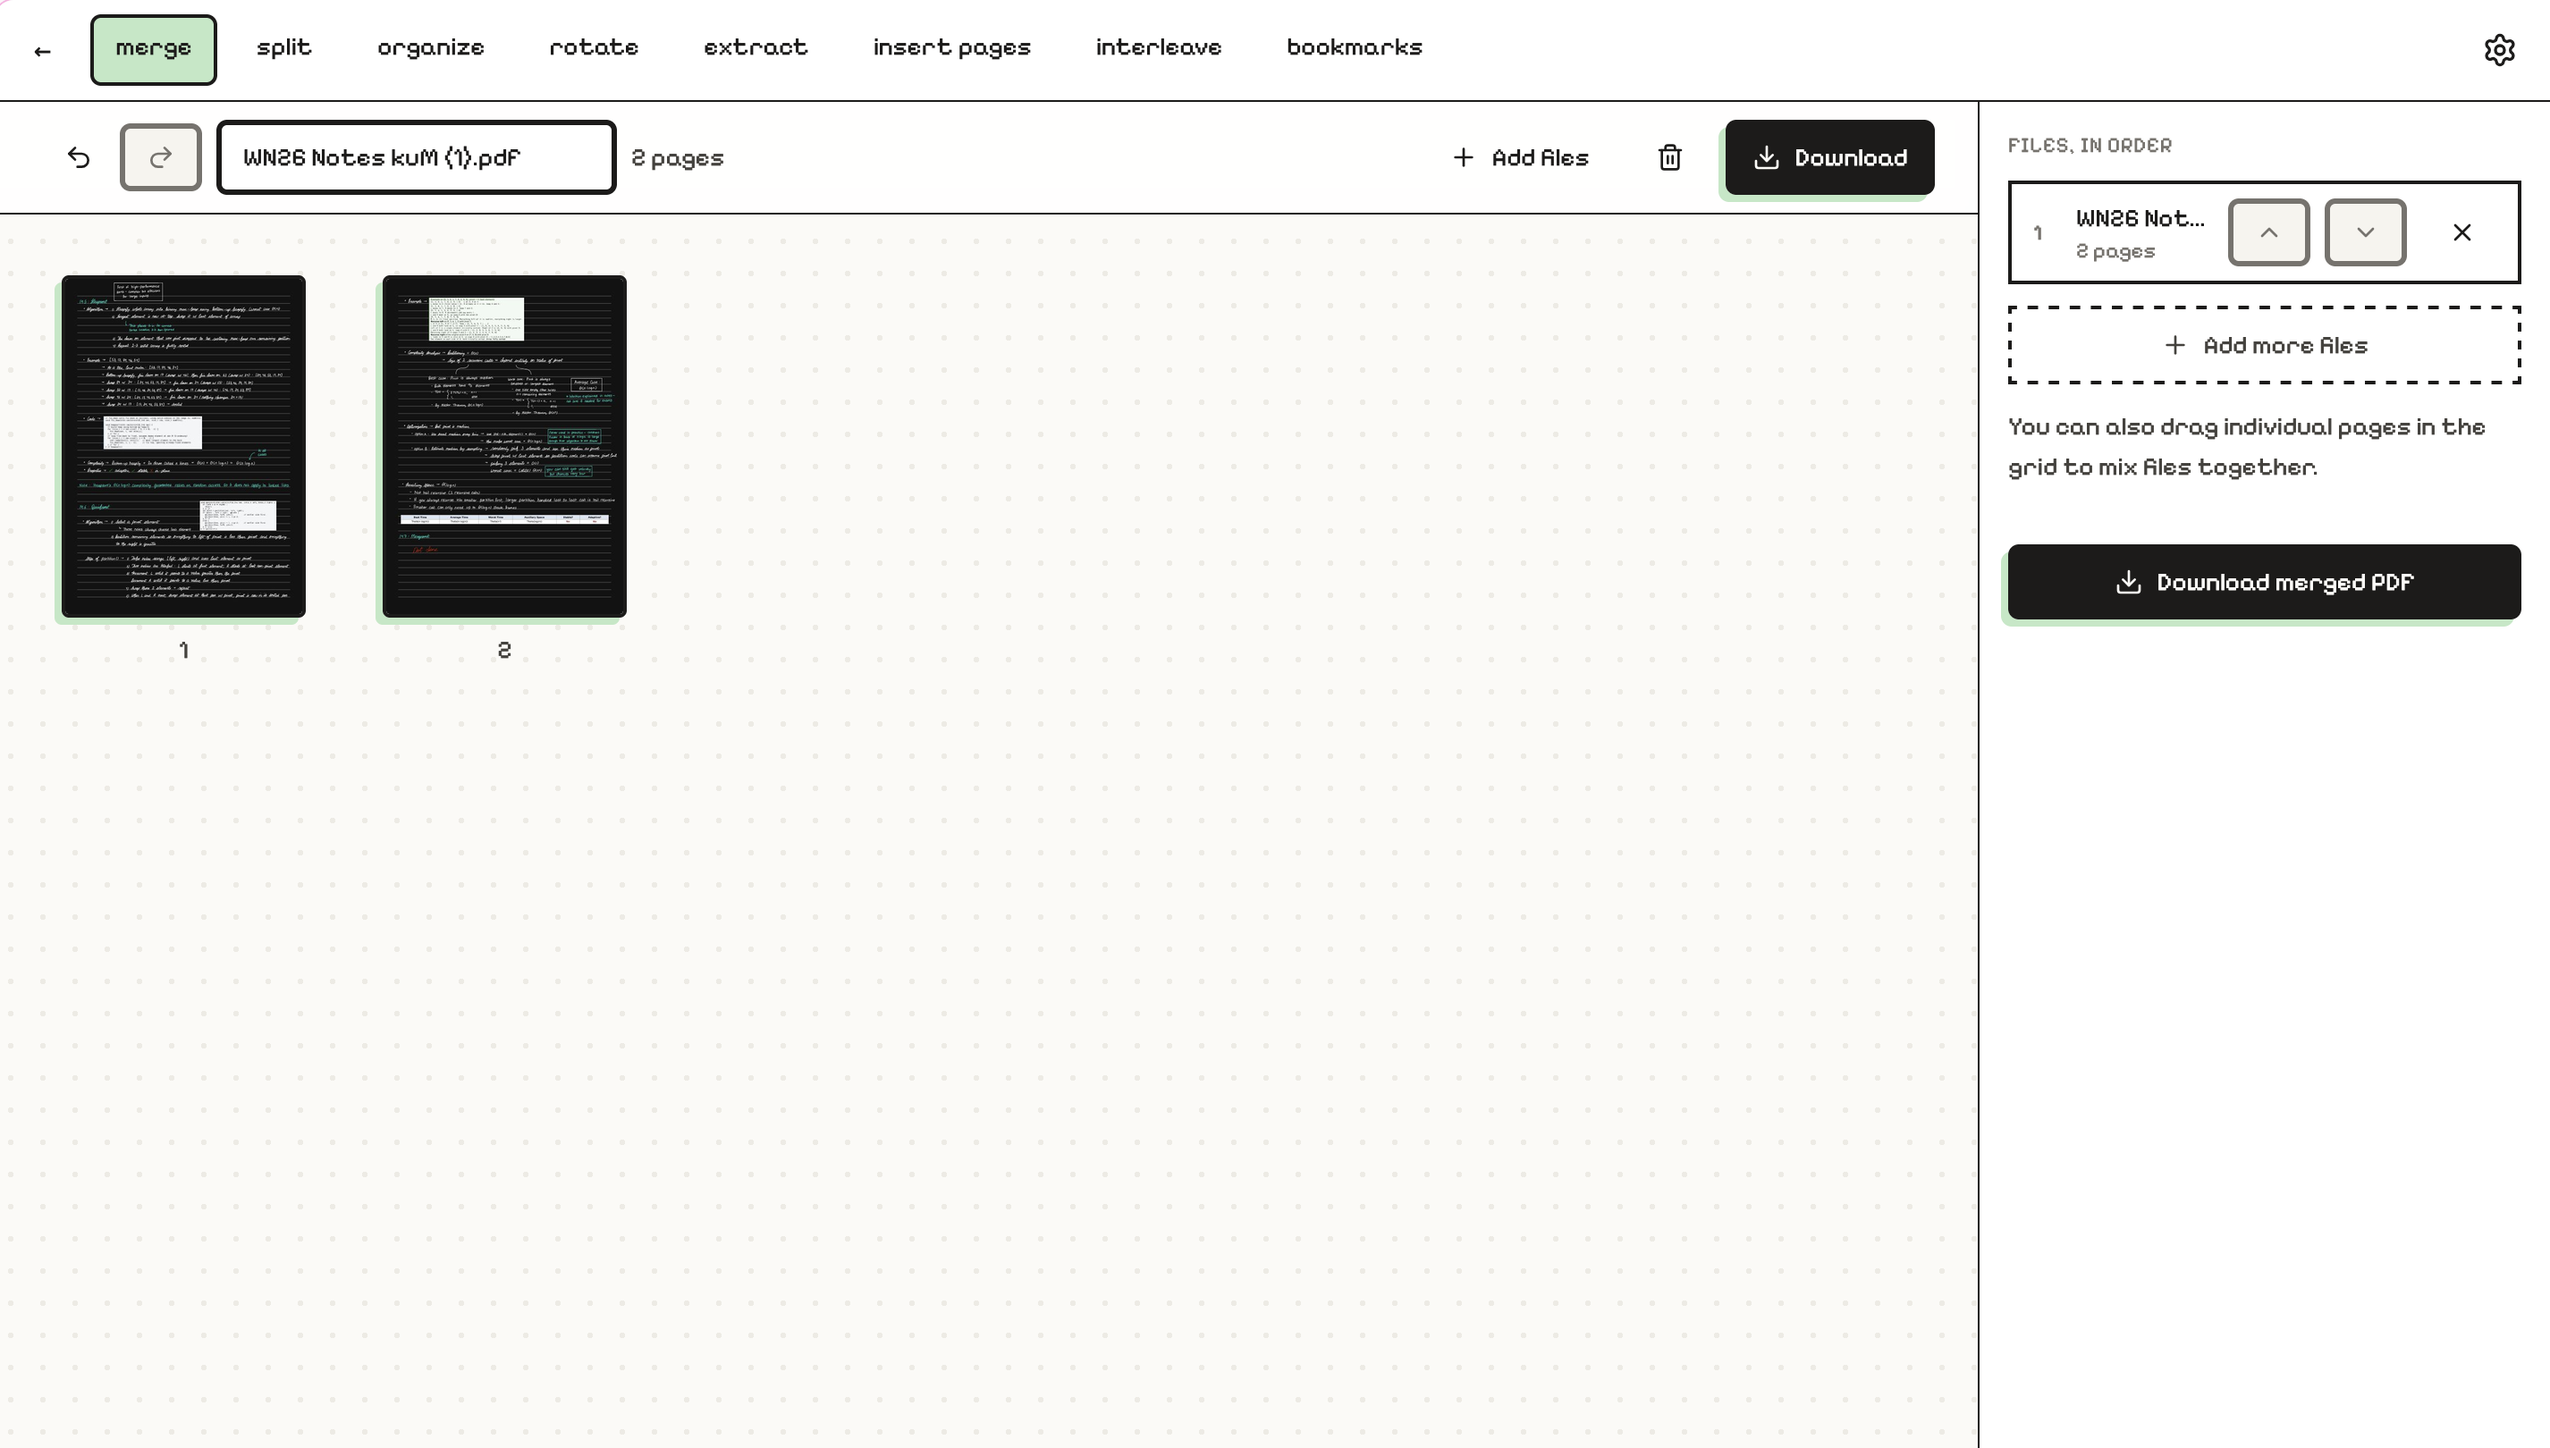
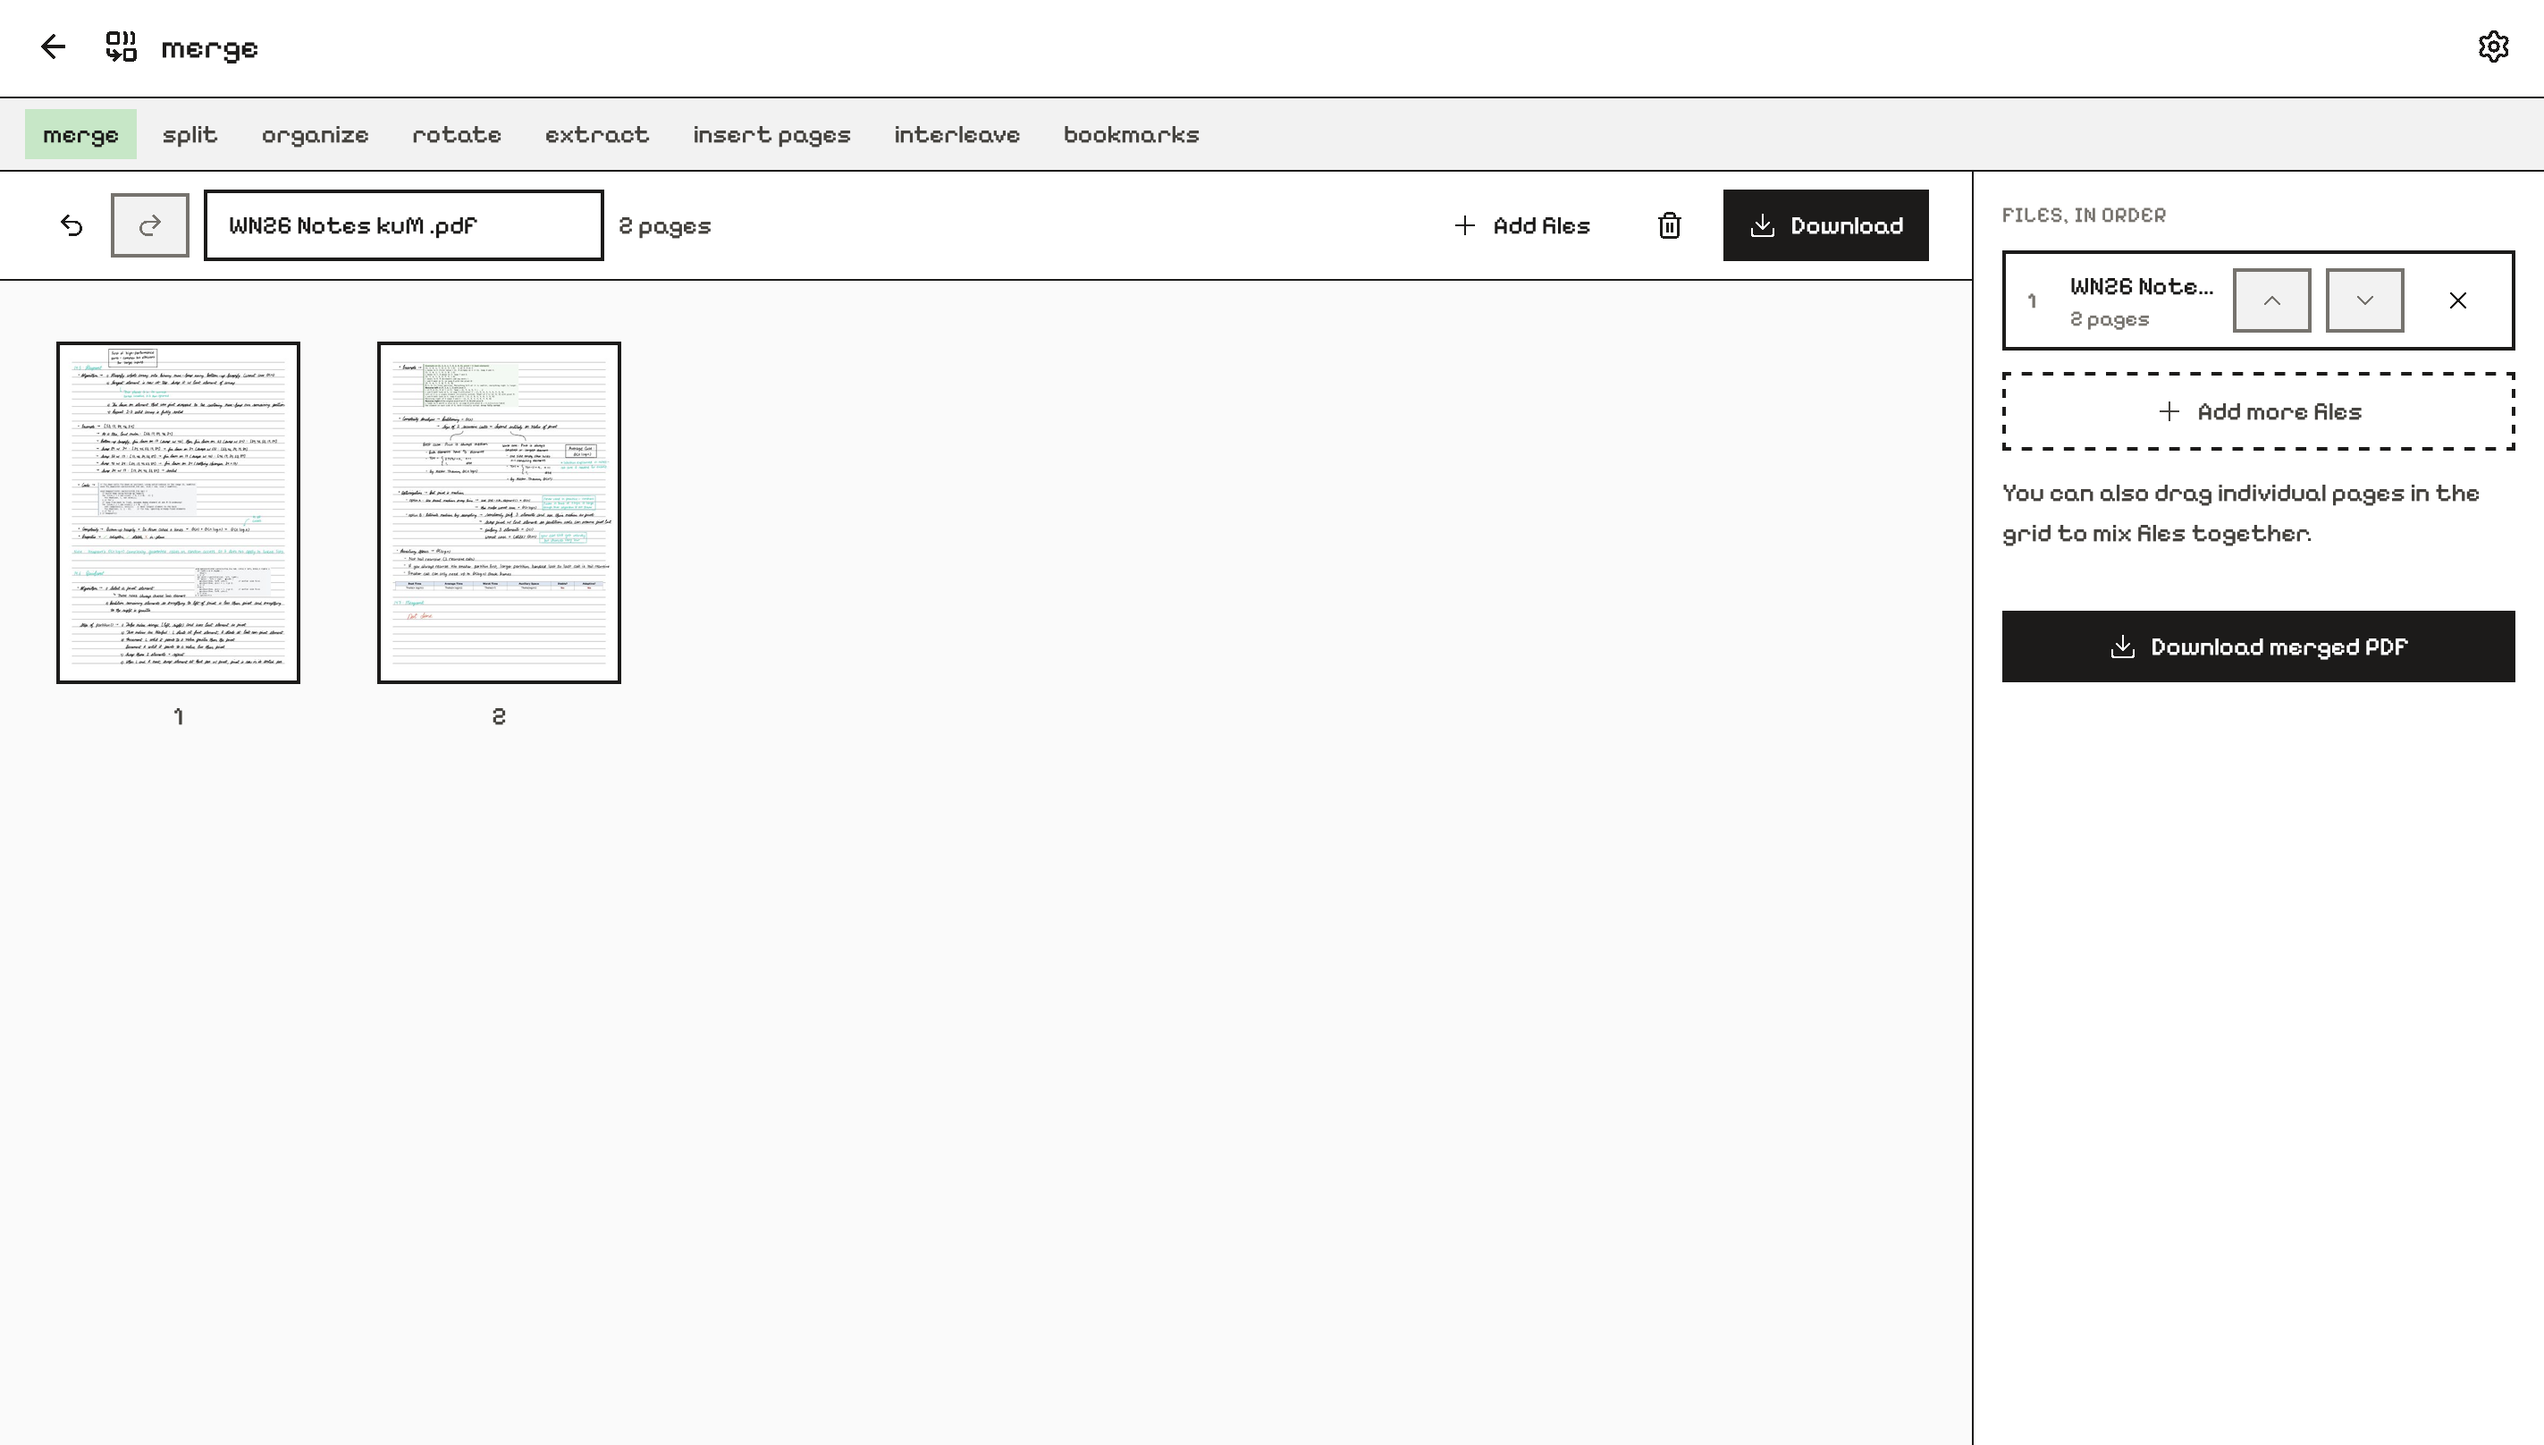
Footer + image

diff --git a/apps/web/src/routes/Home.tsx b/apps/web/src/routes/Home.tsx
@@ -106,16 +106,9 @@ export function Home() {
         )}
       </main>
 
-      <footer className="border-t border-ink bg-card">
-        <div className="mx-auto flex w-full max-w-4xl flex-wrap items-center justify-between gap-x-6 gap-y-2 px-5 py-5 text-sm text-ink-3 sm:px-8">
-          <span className="flex items-center gap-2.5 text-ink">
-            <Logo />
-            everything-pdf
-          </span>
-          <span>
-            press <kbd>{isMac ? "⌘" : "Ctrl"} K</kbd> anywhere to jump to a tool
-          </span>
-        </div>
+      <footer className="flex items-center gap-2.5 border-t border-ink bg-card py-4 pr-14 pl-5 sm:pl-8">
+        <Logo />
+        <span className="text-lg">everything-pdf</span>
       </footer>
     </div>
   );
